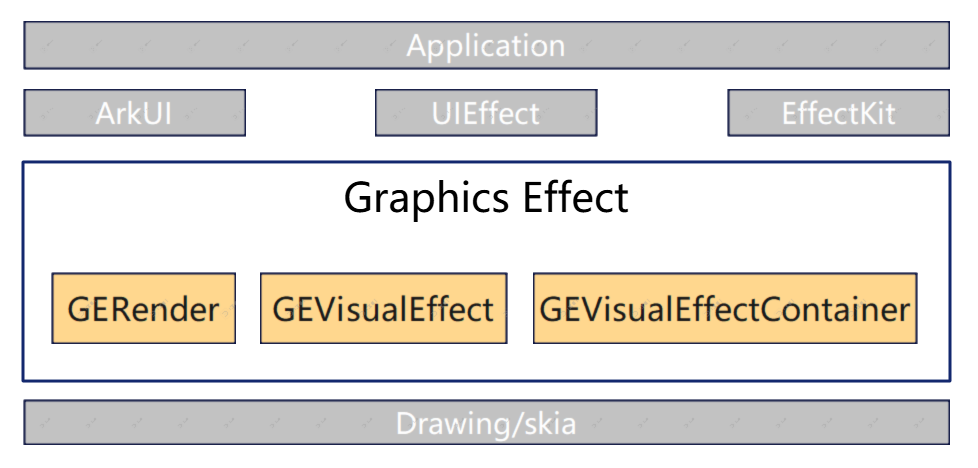
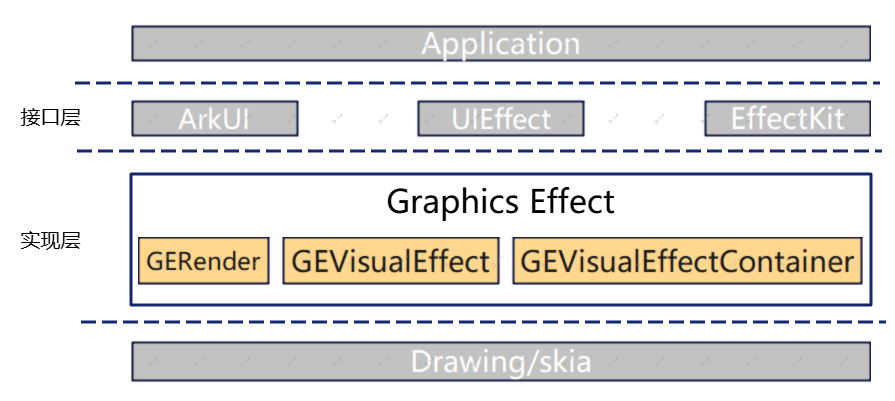
update readme

diff --git a/README.en.md b/README.en.md
@@ -1,10 +1,10 @@
 # graphics_effect
 
-#### Description
+## Description
 graphics_effect is an important component of OpenHarmony's graphics subsystem, providing the necessary visual effects algorithm capabilities for the graphics subsystem, including blur, shadow, gradient, grayscale, brighten, invert, enhance, etc.
 
-#### Software Architecture
-![GraphicsEffectArchitecture](./figures/graphics_effect_architecture.png)
+## Software Architecture
+![GraphicsEffectArchitecture](./figures/graphics_effect_architecture_en.png)
 
 The layered description of Graphics Effect is as follows:
 
@@ -19,10 +19,10 @@ The layered description of Graphics Effect is as follows:
 
 • Engine encapsulation layer: encapsulation layerof 2D engine provided by the system.
 
-#### Installation
+## Installation
 
 Not involved
 
-#### Instructions
+## Instructions
 
 The capabilities of this component have been integrated into system UI rendering scenarios such as the desktop, status bar, and control center, and users can directly operate and use it and experience the corresponding effects.

diff --git a/README.md b/README.md
@@ -1,9 +1,9 @@
 # graphics_effect
 
-#### 介绍
+## 介绍
 Graphics Effect是OpenHarmony图形子系统的重要部件，为图形子系统提供必需的动视效算法能力，包括模糊、阴影、渐变、灰阶、提亮、反色、取色等。
 
-#### 软件架构
+## 软件架构
 ![GraphicsEffect架构图](./figures/graphics_effect_architecture.png)
 
 Graphics Effect的分层说明如下：
@@ -19,10 +19,10 @@ Graphics Effect的分层说明如下：
 
 • 引擎封装层：系统提供的2D引擎封装层。
 
-#### 安装教程
+## 安装教程
 
 不涉及
 
-#### 使用说明
+## 使用说明
 
 在桌面、状态栏、控制中心等系统UI场景中已经集成了该部件的能力，用户可直接操作使用并体验相应效果。
